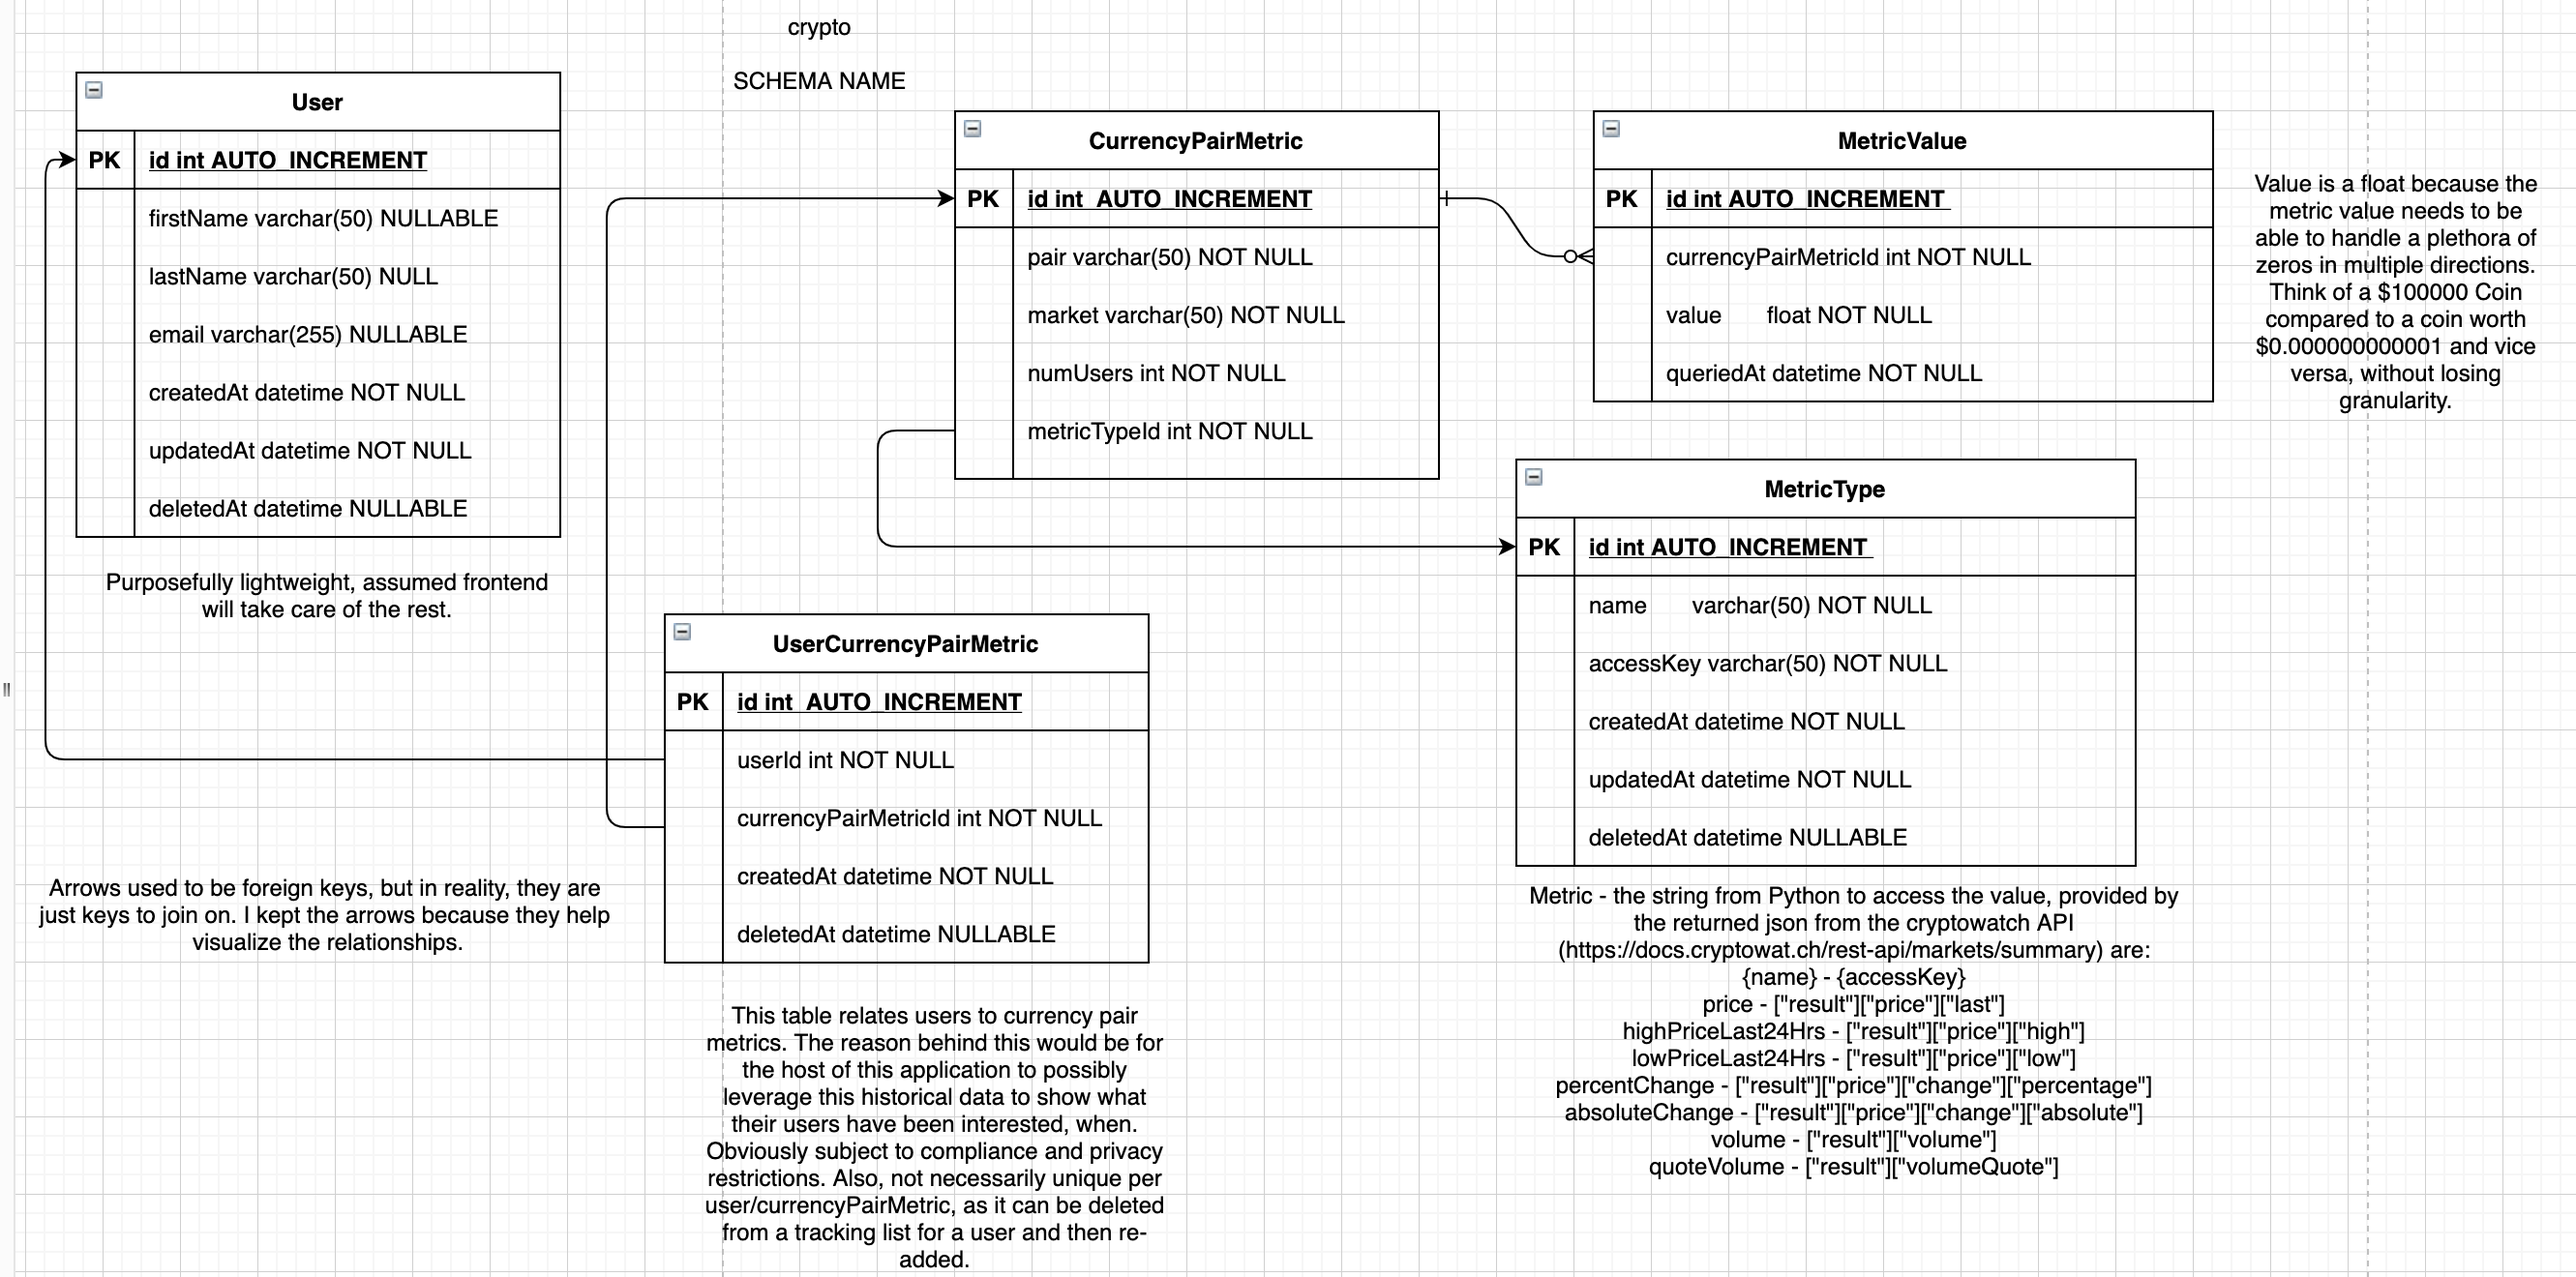
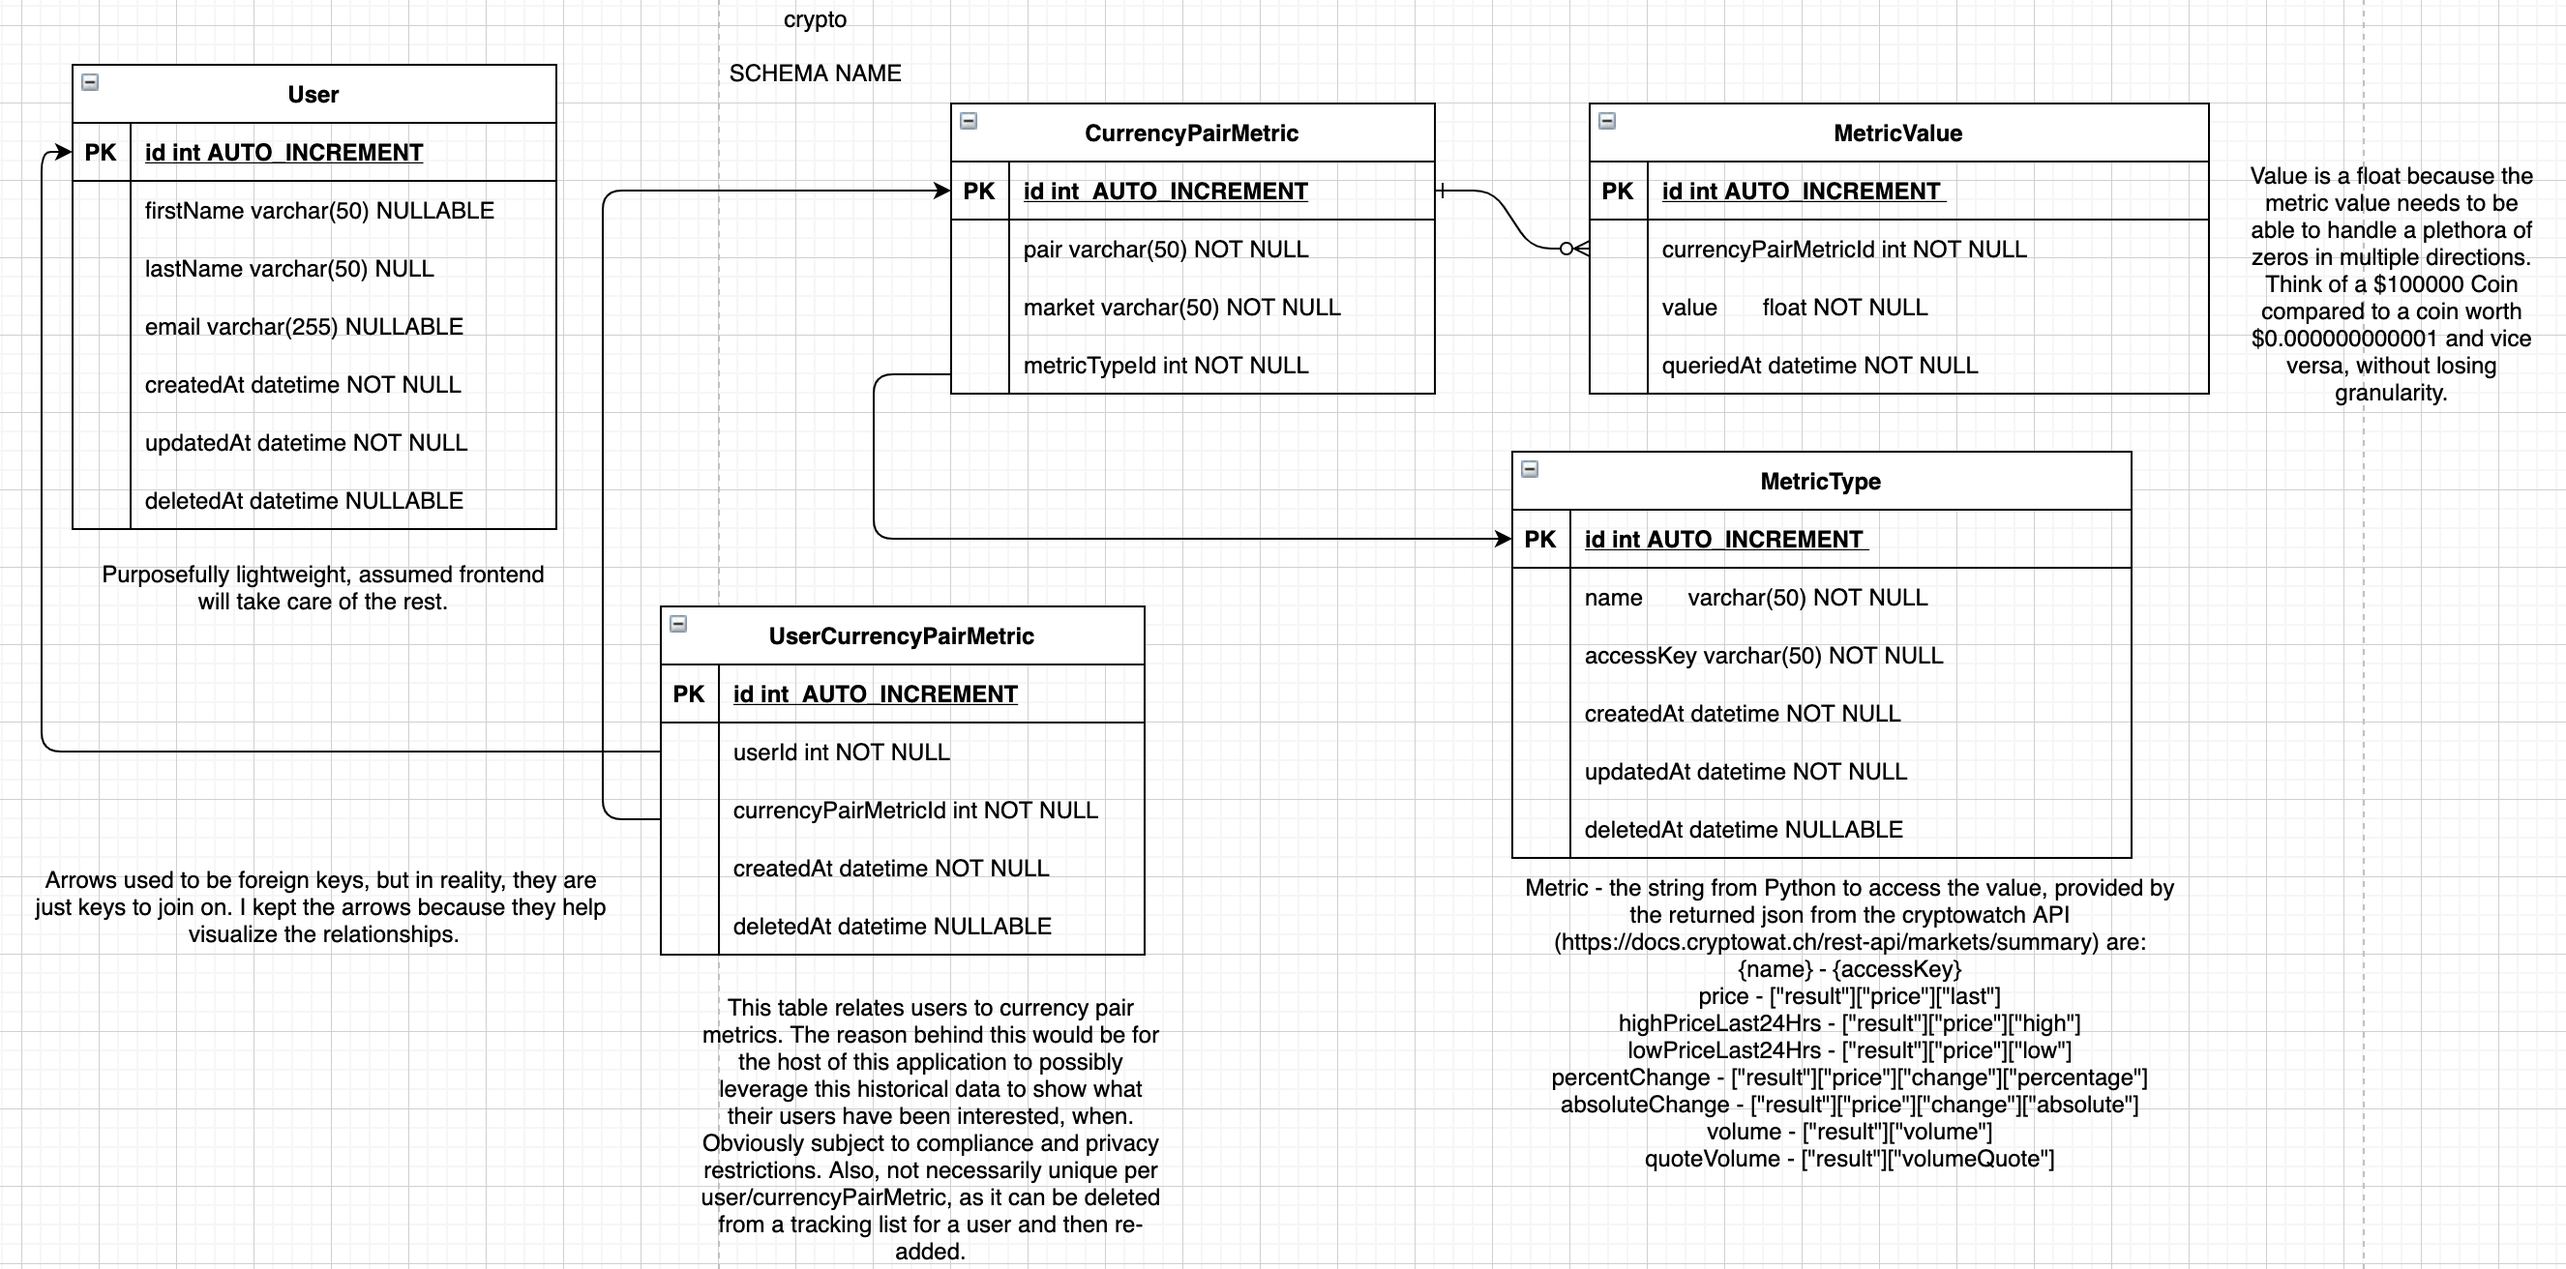
Before first test of function
I have debugging steps in place for the insertion of the first metric. I am about to test it for the first time via my local Postman. I also realized the numUsers column was obsolete as it would be better to just do a count(distinct()) with a where to get the number of Interested users.

diff --git a/crypto-client-api/server.py b/crypto-client-api/server.py
@@ -58,6 +58,75 @@ def validate_token():
     else:
         return json.dumps({"code":400, "msg": "Validation Not Correct"}), 400
 
+def returnErrorReleaseSQL(pool, db, errorMessage):
+    pool.release(db)
+    return json.dumps({"code":400, "msg": errorMessage}), 400
+
+# This code assumes
+def addToDataBaseForTracking(userId, market, pair, metric):
+    if userId < 1:
+        return json.dumps({"code":400, "msg": "Invalid UserId"}), 400
+    else:
+        db, cursor, pool = connectToMySQL()
+        userValidatingQuery = f"SELECT * FROM crypto.User WHERE id = {userId};"
+        cursor.execute(userValidatingQuery)
+        if len(cursor.fetchall()) < 1:
+            return returnErrorReleaseSQL(pool, db, "Invalid UserId")
+        metricValidatingQuery = f"SELECT deletedAt, id FROM crypto.MetricType WHERE name = {metric};"
+        cursor.execute(metricValidatingQuery)
+        metricData = cursor.fetchall()
+        if len(metricData) < 1:
+            return returnErrorReleaseSQL(pool, db, "Invalid Metric")
+        deletedAt, metricTypeId = metricData[0]['deletedAt'], metricData[0]['id']
+        print(deletedAt, metricTypeId)
+        if deletedAt != None:
+            return returnErrorReleaseSQL(pool, db, f"Metric was deleted at {deletedAt}")
+        # TO DO
+        # Add market and pair validation as well. I am assuming good behavior with these.
+
+        # Counter is for Debugging
+        try:
+            counter = 0
+            # Step 0
+            firstCheck = f"""
+            SELECT cpm.id, CASE WHEN ucpm.userId = {userId} then 1 else 0 end as alreadyTracking
+            FROM crypto.UserCurrencyPairMetric ucpm JOIN crypto.CurrencyPairMetric cpm
+            ON ucpm.currencyPairMetricId = cpm.id
+            WHERE ucpm.deletedAt is null
+            AND cpm.market = {market}
+            AND cpm.pair = {pair}
+            AND cpm.metricTypeId = {metricTypeId}
+            ORDER BY 2 DESC
+            LIMIT 1
+            """
+            cursor.execute(firstCheck)
+            pairMetricData = cursor.fetchall()
+            counter += 1
+            if len(pairMetricData) < 1:
+                # Step 1
+                insertionPairMetric = f"INSERT INTO crypto.CurrencyPairMetric (market, pair, metricTypeId) VALUES  ({market}, {pair}, {metricTypeId}) "
+                cursor.execute(insertionPairMetric)
+                currencyPairMetricId = cursor.lastrowid
+                counter += 1
+                # Step 2 declares currencyPairMetricId using the cursor Function
+            else:
+                currencyPairMetricId = pairMetricData[0]['id']
+                alreadyTracking = pairMetricData[0]['alreadyTracking']
+                if alreadyTracking == 1:
+                    pool.release(db)
+                    return json.dumps({"code":200, "msg": "User already tracking that metric"}), 200
+                counter += 2
+                # Step 3 declares currencyPairMetricId via first row
+            userMetricRelationship = f"INSERT INTO crypto.UserCurrencyPairMetric (userId, currencyPairMetricId, createdAt) VALUES ({userId},{currencyPairMetricId}, now())"
+            cursor.execute(userMetricRelationship)
+        except:
+            print(f"Error occurred during step: {counter}")
+            pass
+        finally:
+            pool.release(db)
+            return json.dumps({"code":201, "msg": f"Successfully Added {metric} for {pair} on {market} for this user."}), 201
+
+
 @app.route('/begin-tracking-metric', methods = ['POST'])
 def addTrackingMetric():
     if validateAuthorization(request):
